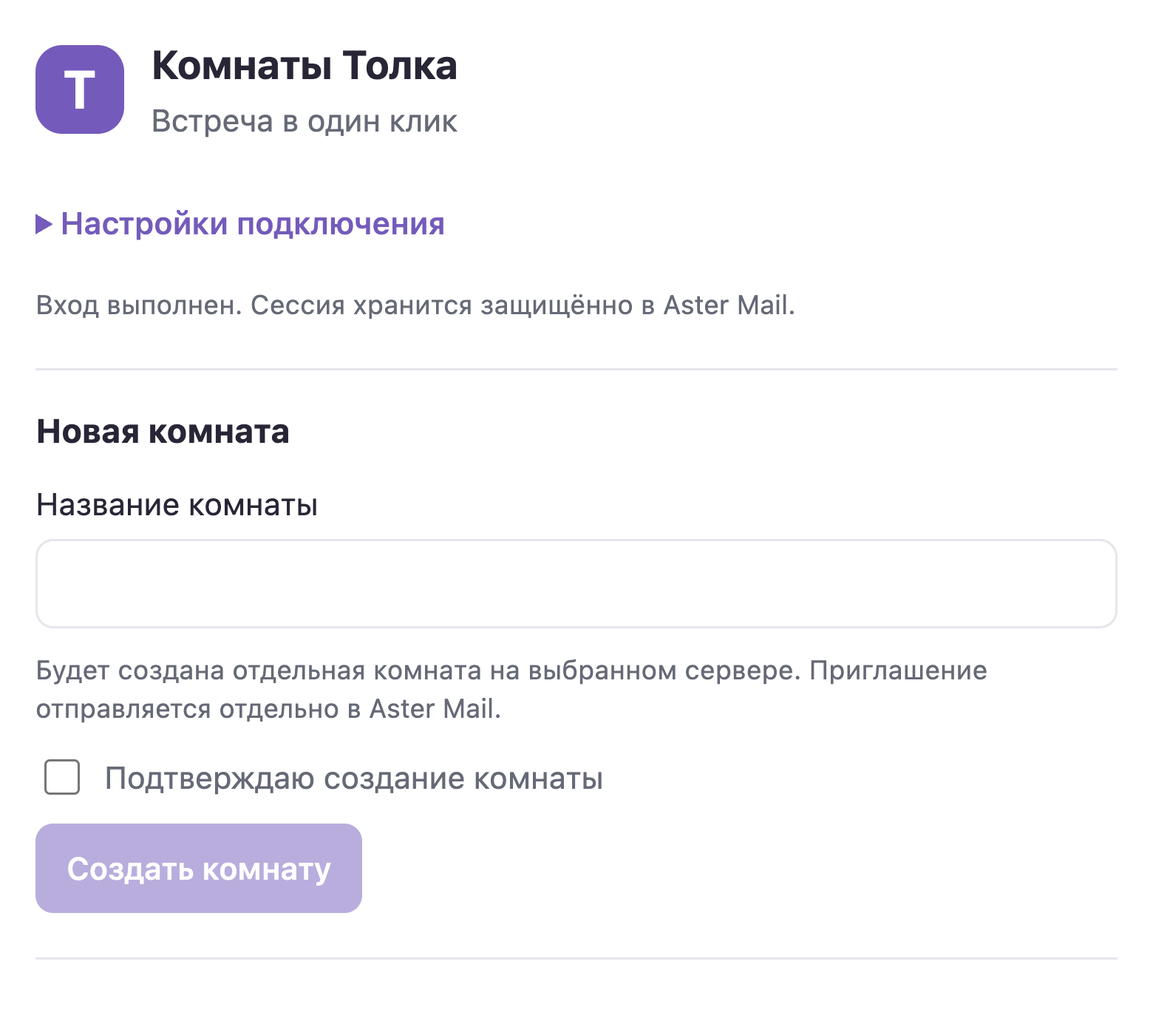
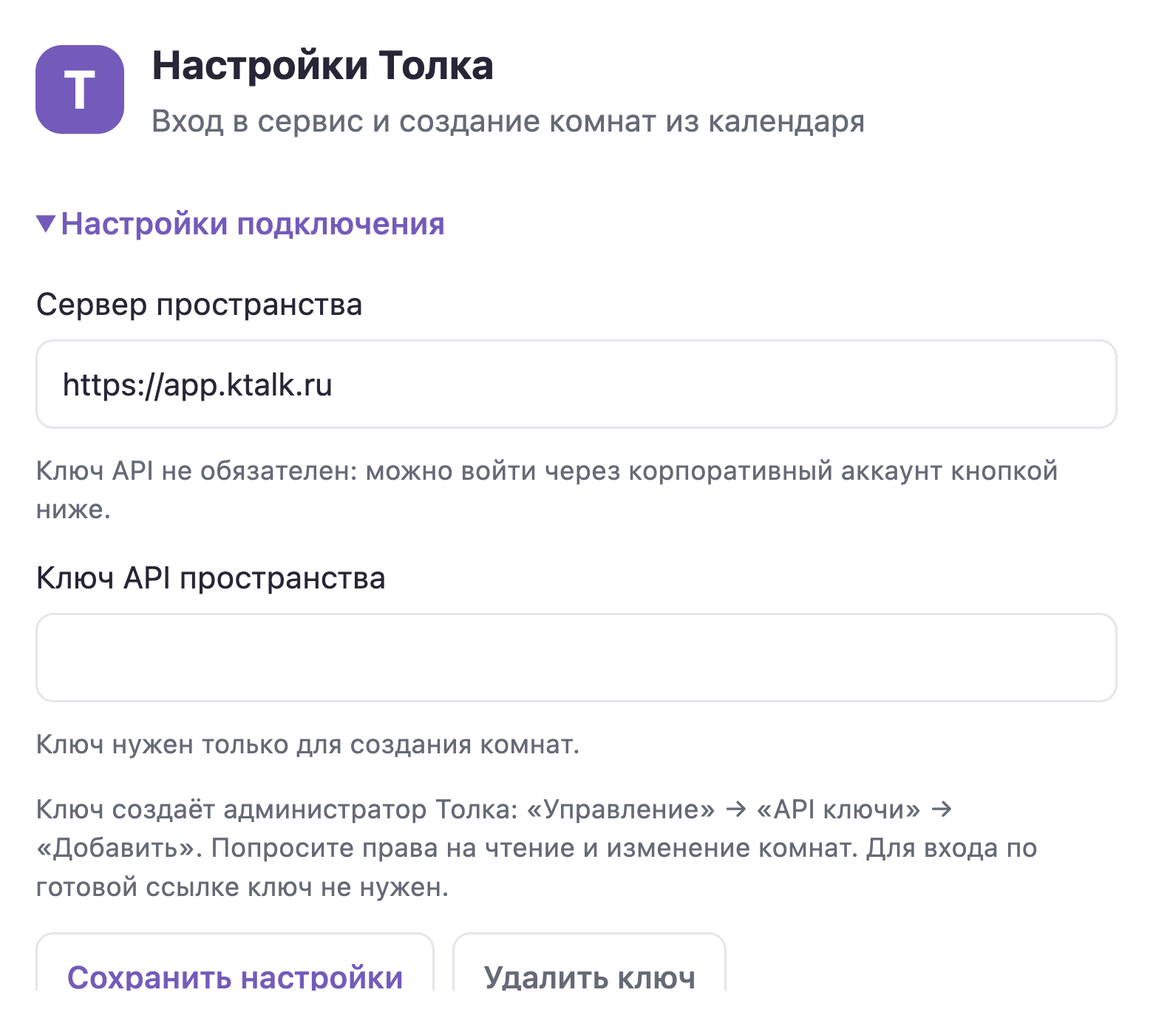
Create KTalk rooms directly from new meetings

diff --git a/ktalk/main.js b/ktalk/main.js
@@ -1,4 +1,5 @@
 import { servers } from './config.js';
+import { translator } from './i18n.js';
 import { serverOrigin, roomURL, newRoomName, draftPatch } from './core.js';
 
 export async function activate(api) {
@@ -9,8 +10,34 @@ export async function activate(api) {
   const request = (state, name, method = 'GET', body) => api.call('network.request', {
     url: `${state.server}/api/Rooms/${name}`, method, ...(body ? { body } : {}), ...(state.apiKey ? { headers: { 'x-auth-token': state.apiKey } } : { auth: 'session' })
   });
+  const createRoom = async input => {
+    const state = await read();
+    if (state.pending) return { error: 'pending', ...safe(state) };
+    const auth = await api.call('auth.status');
+    if (!state.server || !state.apiKey && (!auth.connected || auth.origin !== state.server)) return { error: 'key' };
+    const title = typeof input.title === 'string' ? input.title.trim() : '';
+    if (!title || title.length > 128 || input.confirm !== true) return { error: 'title' };
+    const name = newRoomName(), url = `${state.server}/${name}`;
+    // The official PUT is an upsert. Never intentionally change an existing room.
+    try { await request(state, name); return { error: 'collision' }; }
+    catch (error) { if (error.code !== 'http-error' || error.status !== 404) return { error: 'read', status: error.status || null }; }
+    state.pending = { server: state.server, name, url, title, status: 'unknown', ...(input.editorId ? { editorId: input.editorId } : {}) };
+    // Persist intent BEFORE writing. A crash or account retirement cannot enable replay.
+    await save(state);
+    let room;
+    try { room = await request(state, name, 'PUT', { title }); }
+    catch (error) {
+      const rejected = error.code === 'http-error' && [400, 401, 403, 404, 409, 422, 429].includes(error.status);
+      state.pending.status = rejected ? 'rejected' : 'unknown';
+      await save(state);
+      return { ...safe(state), error: rejected ? 'rejected' : 'unknown', status: error.status || null };
+    }
+    if (!room || room.roomName !== name || room.title !== title) return { ...safe(state), error: 'unknown' };
+    state.pending.status = 'created';
+    await save(state);
+    return safe(state);
+  };
   return { commands: {
-    open: () => api.call('ui.openView', { view: 'panel' }),
     settings: async () => settings(await read()),
     login: async () => {
       const state = await read(), server = state.server || servers[0];
@@ -28,36 +55,34 @@ export async function activate(api) {
       await save({ ...state, server, apiKey });
       return safe({ ...state, server, apiKey });
     },
-    create: async input => {
+    create: createRoom,
+    'create-meeting-room': async (_input, context) => {
+      const tr = translator((await api.call('ui.context')).language);
+      const fail = message => ({ message: tr(message), error: true });
+      if (!context?.editorId) return fail('Откройте новую встречу, чтобы создать комнату.');
+      const draft = await api.call('meeting.getDraft');
+      if (draft.truncated || (draft.body || '').length > 7600) return fail('Описание слишком длинное. Добавьте ссылку вручную в настройках модуля.');
       const state = await read();
-      if (state.pending) return { error: 'pending', ...safe(state) };
-      const auth = await api.call('auth.status');
-      if (!state.server || !state.apiKey && (!auth.connected || auth.origin !== state.server)) return { error: 'key' };
-      const title = typeof input.title === 'string' ? input.title.trim() : '';
-      if (!title || title.length > 128 || input.confirm !== true) return { error: 'title' };
-      const name = newRoomName(), url = `${state.server}/${name}`;
-      // The official PUT is an upsert. Never intentionally change an existing room.
-      try { await request(state, name); return { error: 'collision' }; }
-      catch (error) { if (error.code !== 'http-error' || error.status !== 404) return { error: 'read', status: error.status || null }; }
-      state.pending = { server: state.server, name, url, title, status: 'unknown' };
-      // Persist intent BEFORE writing. A crash or account retirement cannot enable replay.
-      await save(state);
-      let room;
-      try { room = await request(state, name, 'PUT', { title }); }
-      catch (error) {
-        const rejected = error.code === 'http-error' && [400, 401, 403, 404, 409, 422, 429].includes(error.status);
-        state.pending.status = rejected ? 'rejected' : 'unknown';
-        await save(state);
-        return { ...safe(state), error: rejected ? 'rejected' : 'unknown', status: error.status || null };
+      if (state.pending && state.pending.status !== 'created') return fail('Результат предыдущего создания не подтверждён. Проверьте комнату в настройках модуля.');
+      let result;
+      if (state.pending && (!state.pending.editorId || state.pending.editorId === context.editorId)) result = safe(state);
+      else {
+        if (state.pending) { delete state.pending; await save(state); }
+        result = await createRoom({ title: ((draft.title || '').trim() || tr('Новая встреча')).slice(0, 128), confirm: true, editorId: context.editorId });
       }
-      if (!room || room.roomName !== name || room.title !== title) return { ...safe(state), error: 'unknown' };
-      state.pending.status = 'created';
-      await save(state);
-      return safe(state);
+      if (result.error) return fail(result.error === 'key' ? 'Сначала настройте вход в Толк в разделе «Модули».' : 'Не удалось подтвердить создание комнаты. Проверьте результат в настройках модуля.');
+      // The host rejects stale editors and asks before replacing newer field values.
+      let patch;
+      try { patch = draftPatch(draft, result.pending.url, tr('Подключиться в Толке')); }
+      catch { return fail('Описание слишком длинное. Добавьте ссылку вручную в настройках модуля.'); }
+      await api.call('meeting.patchDraft', patch);
+      const current = await read();
+      current.pending.editorId = context.editorId; await save(current);
+      return { message: tr('Ссылка на комнату добавлена в новую встречу.'), url: result.pending.url };
     },
     check: async () => {
       const state = await read(), pending = state.pending;
-      if (!pending || pending.server !== state.server || !servers.includes(state.server) || !/^aster[a-f0-9]{32}$/.test(pending.name)) return { error: 'key' };
+      if (!pending || pending.server !== state.server || !state.server || !/^aster[a-f0-9]{32}$/.test(pending.name)) return { error: 'key' };
       try {
         const room = await request(state, pending.name);
         if (room?.roomName !== pending.name || room.title !== pending.title) return { ...safe(state), error: 'unknown' };
@@ -66,7 +91,7 @@ export async function activate(api) {
     },
     insert: async (input, context) => {
       const state = await read();
-      const url = input.existing ? roomURL(input.existing, servers) : state.pending?.status === 'created' ? roomURL(state.pending.url, servers) : null;
+      const url = input.existing ? roomURL(input.existing, [...new Set([...servers, state.server].filter(Boolean))]) : state.pending?.status === 'created' ? roomURL(state.pending.url, [...new Set([...servers, state.server].filter(Boolean))]) : null;
       if (!url) return { error: 'unknown' };
       const draft = context?.editorId ? await api.call('meeting.getDraft') : {};
       const ui = await api.call('ui.context');

diff --git a/ktalk/panel.html b/ktalk/panel.html
@@ -8,39 +8,27 @@
 </head>
 <body>
   <main>
-    <header><span class="mark" aria-hidden="true">Т</span><div><h1 data-text>Комнаты Толка</h1><p data-text>Встреча в один клик</p></div></header>
+    <header><span class="mark" aria-hidden="true">Т</span><div><h1 data-text>Настройки Толка</h1><p data-text>Вход в сервис и создание комнат из календаря</p></div></header>
     <details id="connection" open><summary data-text>Настройки подключения</summary>
     <form id="settings">
       <label><span data-text>Сервер пространства</span><input id="server" name="server" list="servers" placeholder="company.ktalk.ru" required autocapitalize="none" spellcheck="false"></label>
       <datalist id="servers"></datalist>
+      <p class="note" data-text>Ключ API не обязателен: можно войти через корпоративный аккаунт кнопкой ниже.</p>
       <label><span data-text>Ключ API пространства</span><input id="api-key" name="apiKey" type="password" maxlength="4096" autocomplete="off" spellcheck="false"></label>
       <p id="key-hint" class="note"></p>
-      <p class="note" data-text>Права ключа: чтение и изменение комнат. Хранится защищённо в Aster Mail.</p>
+      <p class="note" data-text>Ключ создаёт администратор Толка: «Управление» → «API ключи» → «Добавить». Попросите права на чтение и изменение комнат. Для входа по готовой ссылке ключ не нужен.</p>
       <div class="actions"><button type="submit" data-text>Сохранить настройки</button><button id="clear-key" type="button" class="quiet" data-text>Удалить ключ</button></div>
       <div class="actions"><button id="login" type="button" data-text>Войти через корпоративный аккаунт</button><button id="logout" type="button" class="quiet" data-text>Удалить сессию Толка</button></div>
     </form>
     </details>
     <p id="auth-state" class="note" role="status"></p>
-    <section>
-      <h2 data-text>Новая комната</h2>
-      <form id="create">
-        <label><span data-text>Название комнаты</span><input name="title" id="title" maxlength="128" required></label>
-        <p class="note" data-text>Будет создана отдельная комната на выбранном сервере. Приглашение отправляется отдельно в Aster Mail.</p>
-        <label class="check"><input id="confirm" name="confirm" type="checkbox" required><span data-text>Подтверждаю создание комнаты</span></label>
-        <button type="submit" class="primary" data-text>Создать комнату</button>
-      </form>
-    </section>
     <section id="pending" hidden>
       <h2 data-text>Результат создания</h2>
       <p id="room-state" class="note"></p>
       <label><span data-text>Готовая ссылка</span><input id="room-url" readonly></label>
-      <div class="actions"><button id="insert" type="button" class="primary" data-text>Добавить ссылку во встречу</button><button id="check" type="button" data-text>Проверить комнату</button></div>
+      <div class="actions"><button id="check" type="button" data-text>Проверить комнату</button></div>
       <label class="check"><input id="ack" type="checkbox"><span data-text>Проверил результат в Толке; разрешаю начать другую комнату.</span></label>
       <button id="acknowledge" type="button" class="quiet" data-text>Завершить работу с этой комнатой</button>
-    </section>
-    <section>
-      <h2 data-text>Готовая ссылка</h2>
-      <form id="existing"><label><span data-text>Готовая ссылка</span><input id="existing-url" name="url" type="url" placeholder="https://company.ktalk.ru/test_room" required spellcheck="false"></label><button type="submit" data-text>Добавить ссылку во встречу</button></form>
     </section>
     <p class="note" data-text>При нажатии «Подключиться» ссылки этих серверов откроются в установленном приложении Толк.</p>
     <output id="status" role="status" aria-live="polite"></output>

diff --git a/ktalk/i18n.js b/ktalk/i18n.js
@@ -1,4 +1,17 @@
 const en = {
+  'Настройки Толка': 'KTalk settings',
+  'Вход в сервис и создание комнат из календаря': 'Service sign-in and room creation from the calendar',
+  'Ключ API не обязателен: можно войти через корпоративный аккаунт кнопкой ниже.': 'An API key is optional: use the corporate sign-in button below instead.',
+  'Ключ создаёт администратор Толка: «Управление» → «API ключи» → «Добавить». Попросите права на чтение и изменение комнат. Для входа по готовой ссылке ключ не нужен.': 'Ask your KTalk administrator for a key: Management → API keys → Add. Request read and write room permissions. No key is needed to join an existing room.',
+  'Откройте новую встречу, чтобы создать комнату.': 'Open a new meeting to create a room.',
+  'Описание слишком длинное. Добавьте ссылку вручную в настройках модуля.': 'The description is too long. Copy the link from the module settings and add it manually.',
+  'Результат предыдущего создания не подтверждён. Проверьте комнату в настройках модуля.': 'The previous creation result is unconfirmed. Check the room in the module settings.',
+  'Сначала настройте вход в Толк в разделе «Модули».': 'Set up KTalk sign-in under Modules first.',
+  'Не удалось подтвердить создание комнаты. Проверьте результат в настройках модуля.': 'Room creation could not be confirmed. Check the result in the module settings.',
+  'Ссылка на комнату добавлена в новую встречу.': 'The room link has been added to the new meeting.',
+  'Новая встреча': 'New meeting',
+  'Подключиться в Толке': 'Join KTalk',
+
   'Настройки подключения': 'Connection settings',
   'Войти через корпоративный аккаунт': 'Sign in with a corporate account',
   'Удалить сессию Толка': 'Remove KTalk session',
@@ -27,7 +40,7 @@ const en = {
   'Проверил результат в Толке; разрешаю начать другую комнату.': 'I checked the result in KTalk; allow starting another room.',
   'Настройки сохранены.': 'Settings saved.',
   'Предложено добавить ссылку. Проверьте форму встречи перед отправкой.': 'Link offered. Review the meeting form before sending.',
-  'Комната создана. Можно добавить ссылку во встречу.': 'Room created. You can add its link to the meeting.',
+  'Комната создана. Ссылку можно скопировать.': 'Room created. You can copy its link.',
   'Результат неизвестен. Проверьте комнату в Толке. Создание не повторяется.': 'Result unknown. Check the room in KTalk. Creation will not be repeated.',
   'Запрос отклонён. Проверьте ключ, его права и ограничения сервера.': 'Request rejected. Check the key, permissions and server restrictions.',
   'Комната пока не найдена. При неизвестном результате проверьте её в Толке перед новым созданием.': 'Room not found yet. If the result is unknown, check KTalk before creating another.',

diff --git a/ktalk/panel.js b/ktalk/panel.js
@@ -19,11 +19,9 @@ function render() {
   $('#auth-state').textContent = auth.blockedOrigin ? `${tr('Для корпоративного входа требуется разрешить сервер в пакете:')} ${auth.blockedOrigin}` : tr(auth.pending ? 'Завершите вход в отдельном окне Толка.' : auth.connected && auth.origin === state.server ? 'Вход выполнен. Сессия хранится защищённо в Aster Mail.' : 'Для создания комнат войдите в Толк или укажите ключ API.');
   $('#key-hint').textContent = tr(state.hasKey ? 'Ключ сохранён. Оставьте поле пустым, чтобы сохранить его.' : 'Ключ нужен только для создания комнат.');
   $('#pending').hidden = !state.pending;
-  $('#create').querySelector('button').disabled = busy || Boolean(state.pending);
   if (state.pending) {
     $('#room-url').value = state.pending.url;
-    $('#room-state').textContent = tr(state.pending.status === 'created' ? 'Комната создана. Можно добавить ссылку во встречу.' : messages[state.pending.status] || messages.unknown);
-    $('#insert').disabled = busy || state.pending.status !== 'created';
+    $('#room-state').textContent = tr(state.pending.status === 'created' ? 'Комната создана. Ссылку можно скопировать.' : messages[state.pending.status] || messages.unknown);
   }
 }
 async function run(command, input, success) {
@@ -53,18 +51,12 @@ $('#settings').addEventListener('submit', async event => {
 $('#clear-key').addEventListener('click', async () => {
   await run('save', { server: state.server, apiKey: '', clearKey: true }, 'Настройки сохранены.'); $('#api-key').value = '';
 });
-$('#create').addEventListener('submit', async event => {
-  event.preventDefault();
-  await run('create', { title: $('#title').value, confirm: $('#confirm').checked }); $('#confirm').checked = false;
-});
 $('#check').addEventListener('click', () => run('check'));
 $('#login').addEventListener('click', async () => {
   const value = await run('save', { server: $('#server').value, apiKey: $('#api-key').value }); $('#api-key').value = '';
   if (value && !value.error) await run('login');
 });
 $('#logout').addEventListener('click', () => run('logout'));
-$('#insert').addEventListener('click', () => run('insert', {}, 'Предложено добавить ссылку. Проверьте форму встречи перед отправкой.'));
-$('#existing').addEventListener('submit', event => { event.preventDefault(); void run('insert', { existing: $('#existing-url').value }, 'Предложено добавить ссылку. Проверьте форму встречи перед отправкой.'); });
 $('#acknowledge').addEventListener('click', async () => { await run('acknowledge', { confirm: $('#ack').checked }); $('#ack').checked = false; });
 try {
   const ui = await bridge.call('ui.context');
@@ -72,7 +64,6 @@ try {
   if (['dark', 'light'].includes(ui.theme)) document.body.dataset.theme = ui.theme;
   for (const element of document.querySelectorAll('[data-text]')) element.textContent = tr(element.textContent);
   state = await bridge.command('settings');
-  if (state.hasKey || state.auth?.connected) $('#connection').open = false;
   $('#server').value = state.server;
   for (const server of state.servers) { const option = document.createElement('option'); option.value = server; $('#servers').append(option); }
   render();

diff --git a/ktalk/core.js b/ktalk/core.js
@@ -24,5 +24,5 @@ export function draftPatch(draft, url, label) {
   const body = draft?.body || '';
   const updated = body.includes(url) ? body : `${body}${body ? '\n\n' : ''}${label}: ${url}`;
   if (updated.length > 8000) throw new Error('truncated');
-  return { location: url, body: updated };
+  return { location: draft?.location || url, body: updated };
 }

diff --git a/ktalk/README.md b/ktalk/README.md
@@ -1,6 +1,6 @@
 # Контур.Толк для Aster Mail
 
-Пакет `ru.ktalk.meetings`, версия `0.1.0`.
+Пакет `ru.ktalk.meetings`, версия `0.1.3`.
 
 Создаёт комнаты, поддерживает корпоративный вход и API-ключ, предлагает ссылки
 в черновик новой встречи и запускает установленный десктопный Толк после нажатия
@@ -11,9 +11,10 @@
 
 Установите модуль «Контур.Толк» из каталога в релизной версии Aster Mail
 с поддержкой модулей. Проверьте запрашиваемые разрешения, подтвердите установку
-и отдельно включите модуль для нужного аккаунта.
+Настройки доступны сразу после установки, без входа в Exchange.
+Для описанного ниже интерфейса календаря обновите Aster Mail до 0.2.5 или новее.
 
-Поставляемый пакет разрешает `https://app.ktalk.ru` и `https://app.ktalk.ru`.
+По умолчанию используется `https://app.ktalk.ru`.
 Укажите сервер с `https://` или без него, сохраните настройки. При смене сервера
 прежний ключ не переносится. Незавершённый результат создания нужно сначала проверить
 и завершить. Готовая ссылка `https://app.ktalk.ru/test_room` поддерживается.
@@ -25,8 +26,8 @@
 Толка и корпоративного IdP в отдельном окне. Host выделяет непостоянную Electron session
 без почтовых cookies и учётных данных Exchange. Пароль не получает модуль.
 
-Host читает только сессию на точном origin Толка и сохраняет токен в той же
-зашифрованной записи аккаунта `LocalStore`, что использует почтовый клиент.
+Host читает только сессию на точном origin Толка и сохраняет токен
+в независимом зашифрованном профиле модулей Aster Mail.
 Токен не возвращается JS-коду модуля, не включается в каталог, файлы пакета и логи.
 Посредник добавляет `Authorization: Session …` только к запросам того же пространства.
 Временные данные окна очищаются после входа/отмены, отключения и смены аккаунта.
@@ -46,6 +47,10 @@ SSO и Windows пока не проверены; могут потребоват
 
 ## API-ключ
 
+Ключ создаёт администратор пространства Толка: **Управление → API ключи → Добавить**.
+Обычный участник может попросить его у администратора или воспользоваться
+корпоративным входом в настройках модуля. Для перехода в готовую комнату ключ не нужен.
+
 Альтернатива входу — ключ пространства с правами `application.rooms.read` и
 `application.rooms.write`, подходящим сроком и ограничениями IP. Он хранится
 в зашифрованных настройках модуля через Aster LocalStore, не отображается повторно.
@@ -59,7 +64,18 @@ SSO и Windows пока не проверены; могут потребоват
 
 ## Создание комнаты и приглашение
 
-Введите название и подтвердите создание. Отправляется только указанное название;
+В форме **новой встречи** есть одна кнопка модуля — **«Создать комнату»**.
+Она создаёт комнату с названием встречи (или «Новая встреча») и сразу добавляет
+ссылку в место встречи, если оно пустое, и в конец описания. Введённая повестка
+и заполненное место сохраняются. Повторное нажатие в этом черновике использует
+ту же комнату. Настроек входа и отдельных форм модуля в календаре нет.
+
+В карточке уже созданной встречи нажмите **«Подключиться»**: если ссылка относится
+к настроенному пространству Толка и модуль включён, сразу открывается установленное
+приложение Толк. Кнопка создания комнаты в редактировании сохранённой встречи
+не показывается.
+
+При создании отправляется только название;
 участники и описание встречи в Толк не передаются. Новый адрес — `aster` + случайный
 UUID без дефисов. После GET-проверки отсутствия комнаты модуль один раз делает
 `PUT /api/Rooms/{roomName}` с `{ "title": "…" }`.
@@ -78,9 +94,8 @@ UUID без дефисов. После GET-проверки отсутствия
 Другую комнату можно начать после явного завершения предыдущего сценария.
 Это не удаляет комнату на сервере; закрытие черновика также её не удаляет.
 
-Отдельно нажмите «Добавить ссылку во встречу». Описание сохраняется, заполненные
-поля заменяются только после подтверждения host. Усечённое/слишком длинное описание
-не перезаписывается — добавьте ссылку вручную. Приглашение отправляет пользователь
+Ссылка вставляется автоматически. Усечённое/слишком длинное описание
+не перезаписывается — скопируйте готовую ссылку из настроек модуля и добавьте её вручную. Приглашение отправляет пользователь
 в обычной форме Aster Mail. Планирование и повторы остаются в календаре Exchange.
 
 ## Свой сервер и IdP
@@ -88,7 +103,7 @@ UUID без дефисов. После GET-проверки отсутствия
 Новый origin требует отдельного пакета с явными правами:
 
 ```sh
-npm run package:ktalk -- --server https://company.ktalk.ru --out dist/company --version 0.1.2 --identity-origin https://sso.company.ru
+npm run package:ktalk -- --server https://company.ktalk.ru --out dist/company --version 0.1.3 --identity-origin https://sso.company.ru
 ```
 
 `--identity-origin` необязателен, может повторяться. Поддерживается HTTPS-сервер
@@ -120,8 +135,8 @@ npm run package:ktalk -- --server https://company.ktalk.ru --out dist/company --
 В поле «Сервер пространства» можно ввести, например, `https://diy.ktalk.ru`.
 При сохранении Aster Mail запросит разрешение на этот точный origin; до согласия
 модуль не получает к нему доступ и не меняет сохранённый сервер/ключ.
-Разрешение относится к текущему модулю и аккаунту и охватывает его API, вход
-и ссылки приложения встречи. Два адреса в `networkOrigins` — готовые варианты,
+Разрешение относится к текущему модулю и охватывает его API, вход
+и ссылки приложения встречи. Адрес в `networkOrigins` — готовый вариант,
 а не полный список поддерживаемых пространств. Поддомены семейства `ktalk.ru`
 объявлены через общий SDK `optionalOrigins`, без неограниченного сетевого доступа.
 

diff --git a/RELEASE_NOTES.md b/RELEASE_NOTES.md
@@ -1,3 +1,20 @@
+# v0.1.5
+
+## Изменения
+
+- В новой встрече осталась одна кнопка «Создать комнату»: ссылка сразу добавляется в место и описание встречи, сохраняя введённую повестку.
+- Настройки входа и API-ключа доступны отдельно в разделе «Модули». Добавлена подсказка, где администратор Толка создаёт ключ пространства.
+- Повторное нажатие в том же черновике использует уже созданную комнату. Неопределённый результат создания можно проверить в настройках.
+- Баги пришли на встречу без ссылки — теперь им её подставляют автоматически.
+
+## Установка
+
+Обновите Aster Mail до 0.2.5 или новее, затем в каталоге выберите «Обновить с сохранением настроек» для Контур.Толк 0.1.3.
+В настройках модуля укажите сервер пространства и войдите через корпоративный аккаунт либо сохраните ключ API с правами чтения и изменения комнат.
+Для перехода по готовой ссылке ключ не нужен.
+
+---
+
 # v0.1.4
 
 ## Изменения
